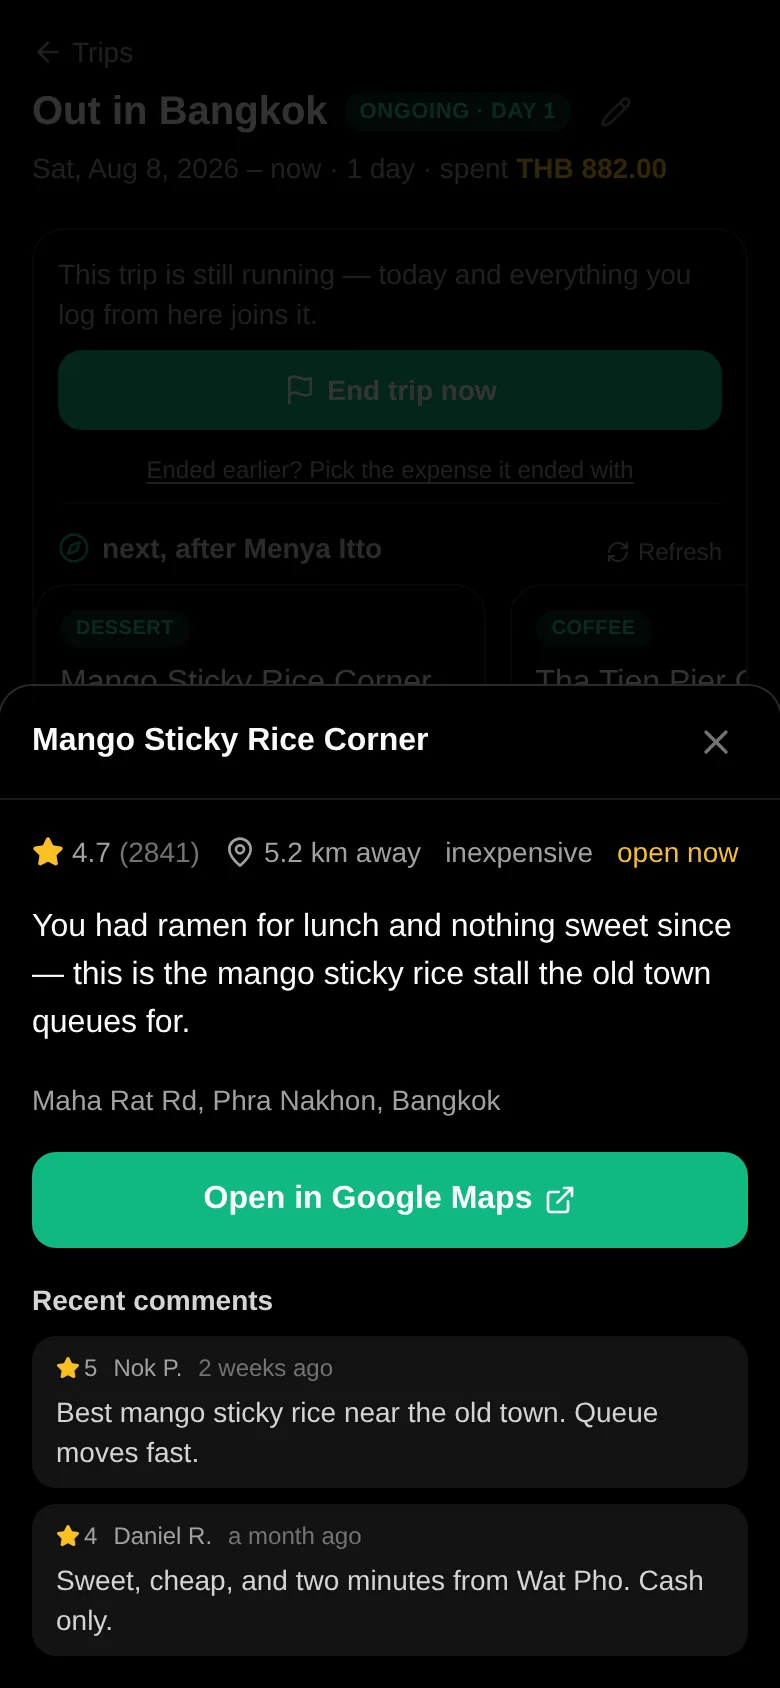
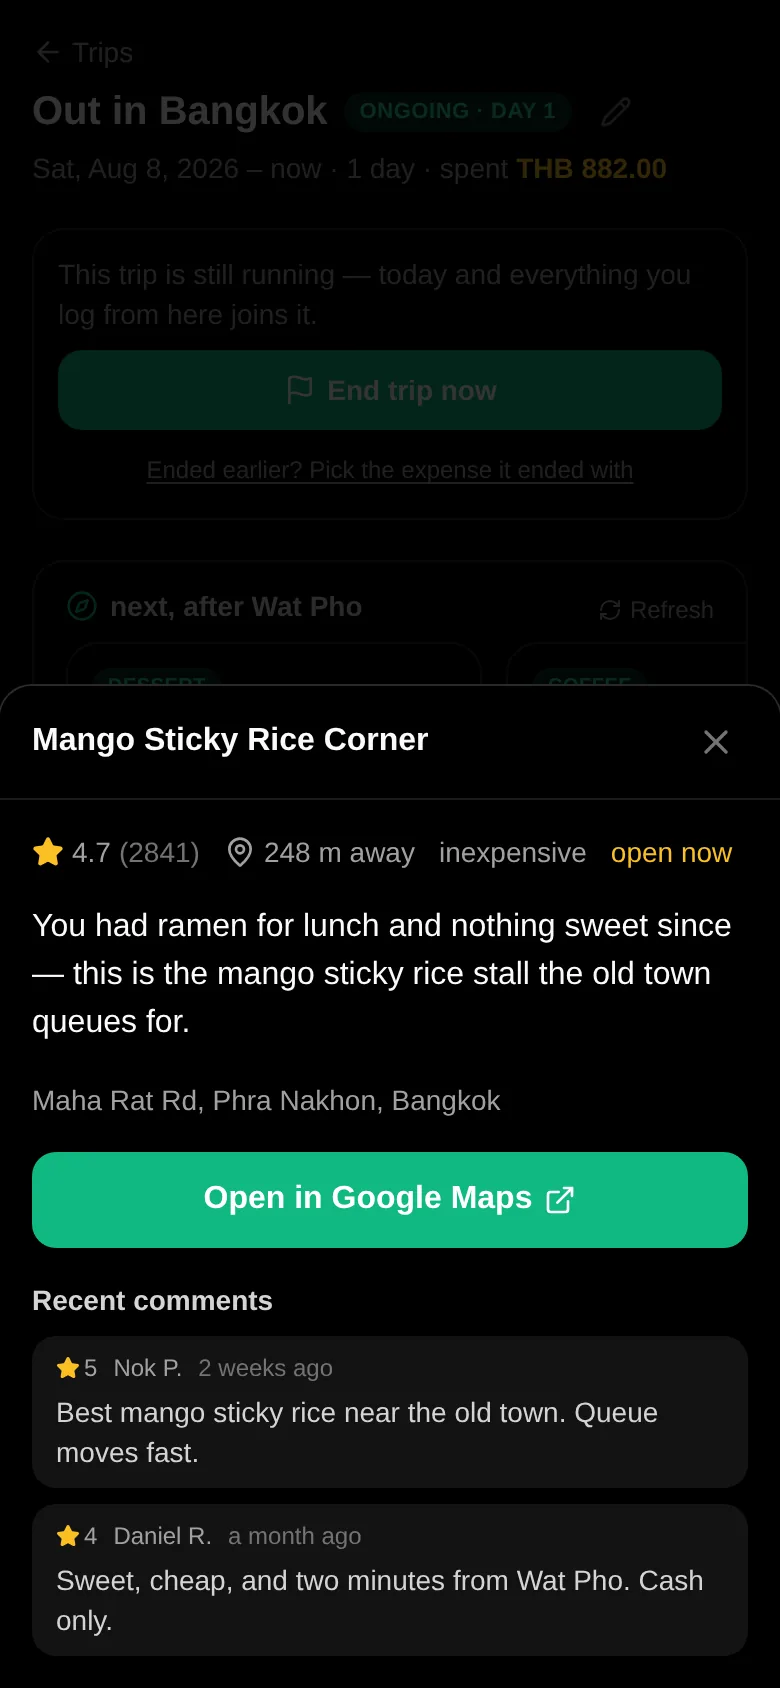
fix(frontend): suggestions get their own card, and the right padding
Ending a trip and deciding where to go next are different jobs, and they were
sharing one panel with a hairline between them. They are now two sibling cards
in the page's normal stack.

The padding was the visible bug: the row cancelled the old card's `p-3` with
`-mx-3 px-3`, so the first card started at the card's border rather than lining
up with the heading above it, and the next one was sliced by the rounded
corner. The row now cancels `px-4` and re-adds it, with `scroll-px-4` so every
snapped card lands on the same gutter — measured at 33px for both the heading
and the first card, and again after scrolling to the second.

Also: the row and the skeleton row had already drifted apart, so both now share
one class string; and card width goes from `w-[68%]` — which made a ~520px card
on a wide screen — to a fixed `w-52 sm:w-56`, showing three and a peek on
desktop instead of two.

Claude-Session: https://claude.ai/code/session_014YEvkqYZUDPBu6PXPqUyeh

diff --git a/frontend/src/components/RecommendationsPanel.tsx b/frontend/src/components/RecommendationsPanel.tsx
@@ -14,10 +14,21 @@ export function formatWalk(distanceM: number | null): string | null {
   return `${(distanceM / 1000).toFixed(1)} km`;
 }
 
+// Its own card, matching the end-trip one above it rather than the full-bleed
+// band a carousel would otherwise want: consistency with the rest of the page
+// wins over the extra millimetre of overhang.
+const PANEL = 'space-y-2 rounded-2xl border border-line bg-surface px-4 py-3';
+// `-mx-4` cancels that padding so the row scrolls the full width of the card,
+// while `px-4`/`scroll-px-4` keep the first card — and every snapped one —
+// aligned with the heading instead of jammed against the border.
+const ROW = '-mx-4 flex snap-x snap-mandatory gap-3 overflow-x-auto px-4 pb-1 scroll-px-4';
+// Fixed rather than a percentage: 68% of a wide screen was a 500px card.
+const CARD_WIDTH = 'w-52 shrink-0 snap-start sm:w-56';
+
 function Card({ item, onOpen }: { item: Recommendation; onOpen: () => void }) {
   const walk = formatWalk(item.distance_m);
   return (
-    <li className="w-[68%] max-w-64 shrink-0 snap-start">
+    <li className={CARD_WIDTH}>
       <button
         type="button"
         onClick={onOpen}
@@ -54,12 +65,9 @@ function Card({ item, onOpen }: { item: Recommendation; onOpen: () => void }) {
 
 function Skeletons() {
   return (
-    <ul className="-mx-3 flex snap-x snap-mandatory gap-3 overflow-x-auto px-3 pb-1">
+    <ul className={ROW}>
       {[0, 1, 2].map((i) => (
-        <li
-          key={i}
-          className="h-28 w-[68%] max-w-64 shrink-0 animate-pulse snap-start rounded-2xl bg-surface-2"
-        />
+        <li key={i} className={`h-28 animate-pulse rounded-2xl bg-surface-2 ${CARD_WIDTH}`} />
       ))}
     </ul>
   );
@@ -76,7 +84,7 @@ export function RecommendationsPanel({ tripId }: { tripId: number }) {
   const items = data?.items ?? [];
 
   return (
-    <section className="space-y-2 border-t border-line-soft pt-3">
+    <section className={PANEL}>
       <div className="flex items-baseline justify-between gap-2">
         <h2 className="flex items-center gap-1.5 text-sm font-semibold text-ink-2">
           <Compass className="size-4 text-brand-600" aria-hidden />
@@ -98,7 +106,7 @@ export function RecommendationsPanel({ tripId }: { tripId: number }) {
       {pending && <Skeletons />}
 
       {!pending && status === 'ready' && items.length > 0 && (
-        <ul className="-mx-3 flex snap-x snap-mandatory gap-3 overflow-x-auto px-3 pb-1">
+        <ul className={ROW}>
           {items.map((item) => (
             <Card key={item.google_place_id} item={item} onOpen={() => setOpened(item)} />
           ))}

diff --git a/frontend/src/pages/TripDetailPage.tsx b/frontend/src/pages/TripDetailPage.tsx
@@ -103,30 +103,35 @@ export function TripDetailPage() {
       </header>
 
       {isOpenTrip(trip) && (
-        <div className="space-y-2 rounded-2xl border border-line bg-surface p-3">
-          <p className="text-sm text-ink-3">
-            This trip is still running — today and everything you log from here joins it.
-          </p>
-          <button
-            type="button"
-            onClick={() => endTrip.mutate({})}
-            disabled={endTrip.isPending}
-            className="flex w-full items-center justify-center gap-1.5 rounded-xl bg-brand-600 py-2.5 text-sm font-semibold text-white active:bg-brand-700 disabled:opacity-50"
-          >
-            <Flag className="size-4" /> {endTrip.isPending ? 'Ending…' : 'End trip now'}
-          </button>
-          <button
-            type="button"
-            onClick={() => setChoosingEnd(true)}
-            className="w-full text-center text-xs text-ink-3 underline underline-offset-2"
-          >
-            Ended earlier? Pick the expense it ended with
-          </button>
-          {endTrip.isError && (
-            <p className="text-center text-sm text-danger">{endTrip.error.message}</p>
-          )}
+        <>
+          <div className="space-y-2 rounded-2xl border border-line bg-surface p-3">
+            <p className="text-sm text-ink-3">
+              This trip is still running — today and everything you log from here joins it.
+            </p>
+            <button
+              type="button"
+              onClick={() => endTrip.mutate({})}
+              disabled={endTrip.isPending}
+              className="flex w-full items-center justify-center gap-1.5 rounded-xl bg-brand-600 py-2.5 text-sm font-semibold text-white active:bg-brand-700 disabled:opacity-50"
+            >
+              <Flag className="size-4" /> {endTrip.isPending ? 'Ending…' : 'End trip now'}
+            </button>
+            <button
+              type="button"
+              onClick={() => setChoosingEnd(true)}
+              className="w-full text-center text-xs text-ink-3 underline underline-offset-2"
+            >
+              Ended earlier? Pick the expense it ended with
+            </button>
+            {endTrip.isError && (
+              <p className="text-center text-sm text-danger">{endTrip.error.message}</p>
+            )}
+          </div>
+
+          {/* Its own card: ending the trip and deciding where to go next are
+              different jobs, and the suggestions want the full width. */}
           <RecommendationsPanel tripId={trip.id} />
-        </div>
+        </>
       )}
 
       {hasMapPoints && (
